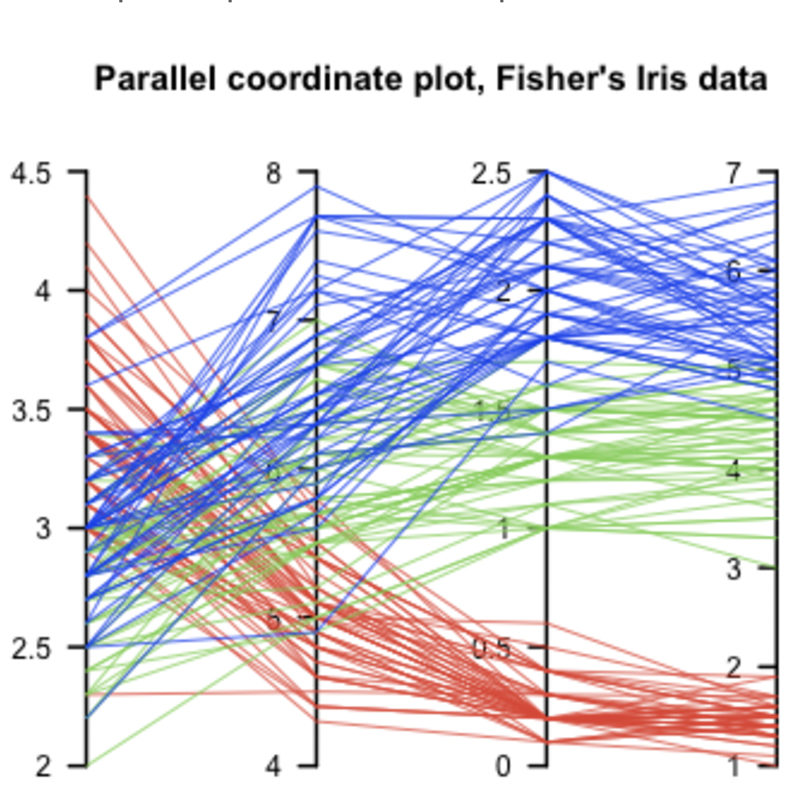
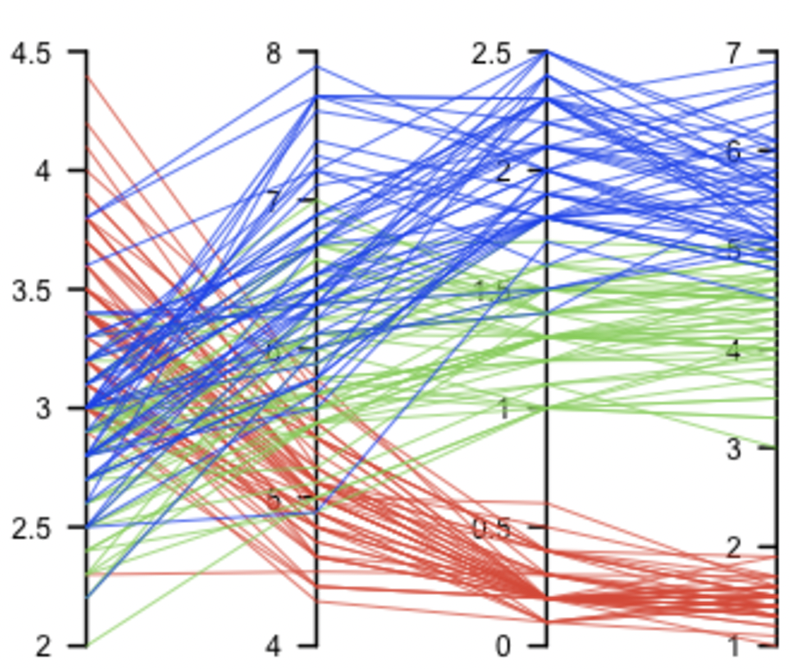
Remove answer-revealing title from PCP recognition chart

diff --git a/embed-pcp.html b/embed-pcp.html
@@ -1405,7 +1405,10 @@ You are a concise Socratic tutor. Help the participant perform the next reasonin
     var title = LANG === 'DE' ? 'Diagramm' : 'Chart';
     var paneHeader = root.querySelector('.rct-left .rct-pane-header');
     if (paneHeader) paneHeader.textContent = title;
-    var src = 'charts/' + q.chartId + '.png';
+    // The revised recognition image has its answer-revealing title removed.
+    // Version its URL so returning participants do not see a cached copy.
+    var src = 'charts/' + q.chartId + '.png' +
+      (q.chartId === 'pcp_rem_fa_2' ? '?v=title-removed-1' : '');
     holder.innerHTML =
       '<figure style="margin:0">' +
         '<div class="vlat-chart-loading" role="status" aria-live="polite">' +
@@ -2004,15 +2007,14 @@ You are a concise Socratic tutor. Help the participant perform the next reasonin
     var recentHistory = rctJudgeBuildRecentHistory(turnIndex);
 
     if (IS_VLAT_MODE) {
-      // VLAT mode: give the Judge the question + options + chart descriptor,
+      // VLAT mode: give the Judge the question and options,
       // but NO correct answer (there is no client-side key). The Judge scores
       // whether the assistant revealed/computed an answer — assessable from
       // the question and the assistant's message alone.
       var vfmt = (q.format === 'tf') ? 'True/False' : 'multiple-choice';
       var vopts = (q.options || []).map(function (o) { return o.key + ') ' + o.text; }).join('\n');
       return '<task_context>\n' +
-             'The participant is answering a ' + vfmt + ' question about a ' + (q.chartType || 'chart') +
-             ' titled "' + (q.chartTitle || '') + '".\n' +
+             'The participant is answering a ' + vfmt + ' chart question.\n' +
              'Question: ' + (q.text || '') + '\n' +
              'Answer options:\n' + vopts + '\n' +
              '</task_context>\n\n' +
@@ -2340,7 +2342,7 @@ You are a concise Socratic tutor. Help the participant perform the next reasonin
         if (IS_VLAT_MODE) {
           textBlock = '[CONTEXT FROM PARTICIPANT]\n' +
             'The participant has shared the chart they are looking at.\n\n' +
-            'Chart: ' + (curQ && curQ.chartType || 'chart') + ' — "' + (curQ && curQ.chartTitle || '') + '".\n' +
+            'Chart supplied by the participant.\n' +
             'They are answering: "' + (curQ && curQ.text || '') + '"';
         } else if (IS_CR_MODE) {
           textBlock = '[CONTEXT FROM PARTICIPANT]\nThe participant has shared the argument passage.\n\nPassage: ' + (curQ && curQ.stem || '') + '\nQuestion: ' + (curQ && curQ.prompt || '');
